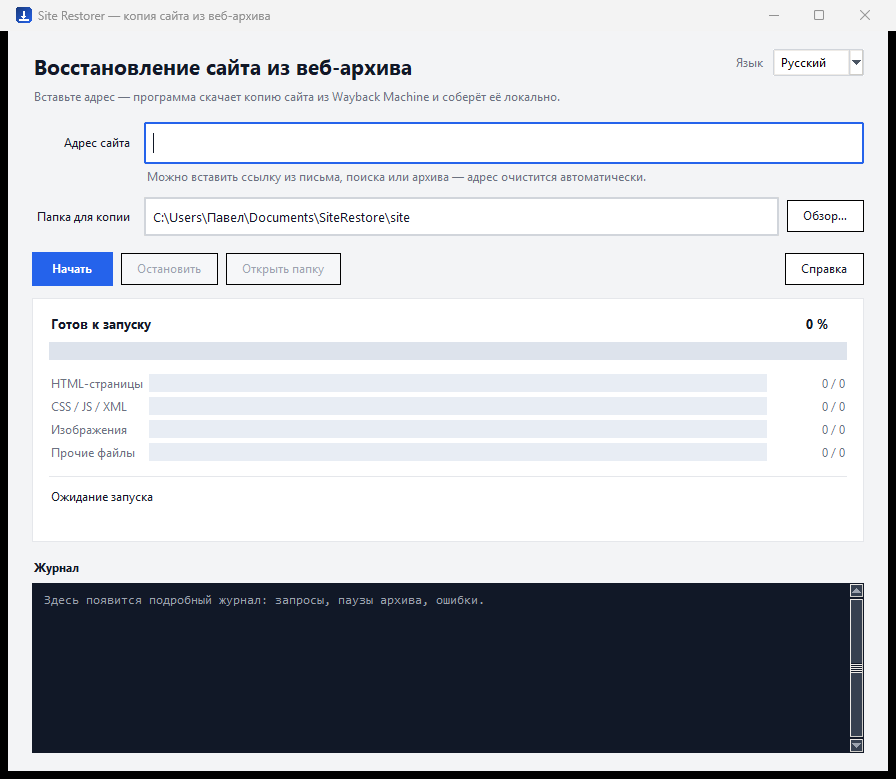
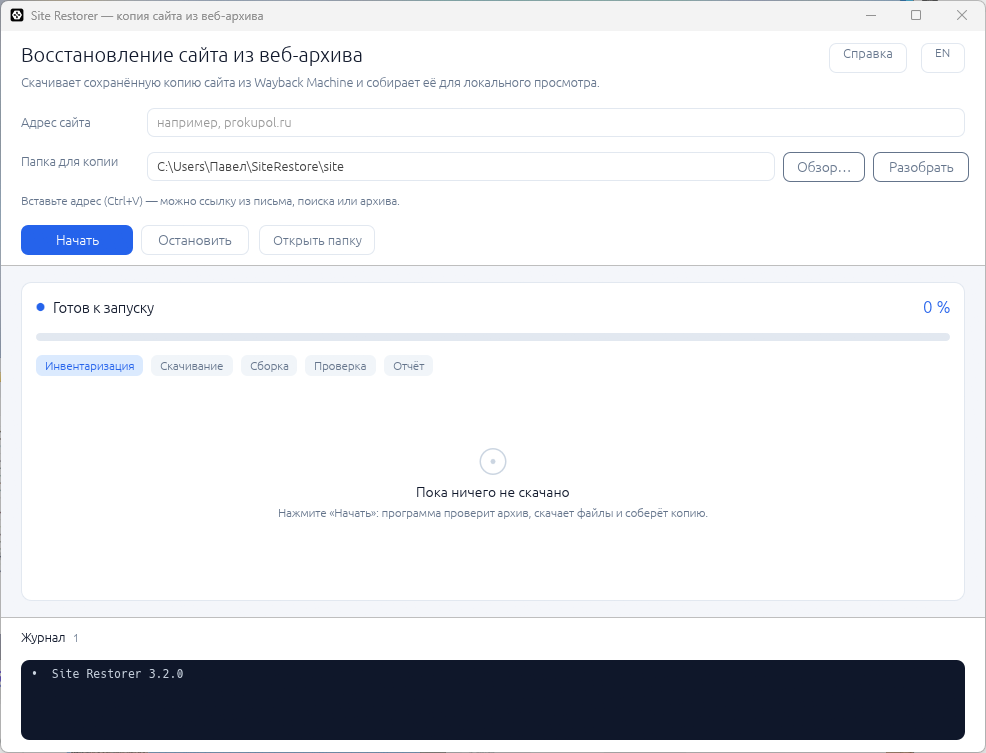
docs: fresh 3.2 screenshots, gallery in README, landing images and captions
The four screenshots dated from 3.1: no stepper, no KPI tiles, no timestamps in
the log line. Replaced with 3.2 captures (idle, inventory, download, build) taken
at 986x753 with a clean profile, so the saved window geometry cannot leak in.
README gets a small gallery, PUBLISH.md lists the real repository layout, and the
landing page shows the download state with the new dimensions.

Changed region(s): [[0.0, 0.0, 1.0, 1.0], [0.2812, 0.6414, 0.7188, 0.7025], [0.9062, 0.0, 0.9375, 0.0305]]

diff --git a/landing/index.html b/landing/index.html
@@ -187,9 +187,9 @@
 
       <figure class="hero-media">
         <div class="shot">
-          <img src="assets/img/screenshot-running.png" width="896" height="659" alt="Окно Site Restorer: скачивание архива, плитки прогресса, полосы по типам файлов и журнал запросов" fetchpriority="high">
+          <img src="assets/img/screenshot-running.png" width="986" height="753" alt="Окно Site Restorer: скачивание архива, плитки прогресса, полосы по типам файлов и журнал запросов с метками времени" fetchpriority="high">
         </div>
-        <figcaption class="shot-caption">Программа в работе: инвентаризация архива и журнал каждого запроса.</figcaption>
+        <figcaption class="shot-caption">Программа в работе: скачивание архива, скорость, потоки и журнал каждого запроса.</figcaption>
       </figure>
     </div>
   </section>

diff --git a/landing/en/index.html b/landing/en/index.html
@@ -187,9 +187,9 @@
 
       <figure class="hero-media">
         <div class="shot">
-          <img src="../assets/img/screenshot-running.png" width="896" height="659" alt="Site Restorer window: archive download, progress tiles, per-type bars and the request log" fetchpriority="high">
+          <img src="../assets/img/screenshot-running.png" width="986" height="753" alt="Site Restorer window: archive download, progress tiles, per-type bars and a timestamped request log" fetchpriority="high">
         </div>
-        <figcaption class="shot-caption">Restoring a site: archive inventory and a log entry for every request.</figcaption>
+        <figcaption class="shot-caption">Working: archive download, speed, threads and a log entry for every request.</figcaption>
       </figure>
     </div>
   </section>

diff --git a/PUBLISH.md b/PUBLISH.md
@@ -106,12 +106,13 @@ git push origin v2.4
 | `LICENSE` | MIT |
 | `CHANGELOG.md` | история версий |
 | `ARCHITECTURE.md` | разбор алгоритмов |
-| `src/` | исходники (`core.py`, `main.py`, `sanitize.py`, иконка) |
-| `build.ps1` | локальная сборка x64/x86 |
+| `src/` | исходники на Rust: ядро (`core.rs`), окно (`app.rs`), настройки, часы, отчёт |
+| `Cargo.toml`, `Cargo.lock`, `rust-toolchain.toml` | версия 3.2.0 и закреплённый тулчейн |
 | `.github/workflows/build.yml` | CI: сборка и релиз по тегу |
-| `docs/screenshots/` | скриншоты для README |
+| `BUILD.md`, `docs/RELEASE.md` | локальная сборка и порядок выпуска |
+| `docs/screenshots/` | снимки окна для README и лендинга |
 | `docs/prokupol-case.md` | кейс восстановления prokupol.ru |
-| `tests/` | юнит-тесты, которые гоняет CI |
+| `tests/` | тесты (`cargo nextest`), их гоняет CI |
 | `CONTRIBUTING.md`, `SECURITY.md`, `CODE_OF_CONDUCT.md` | правила участия |
 | `.github/ISSUE_TEMPLATE/`, `pull_request_template.md` | шаблоны обращений |
 
